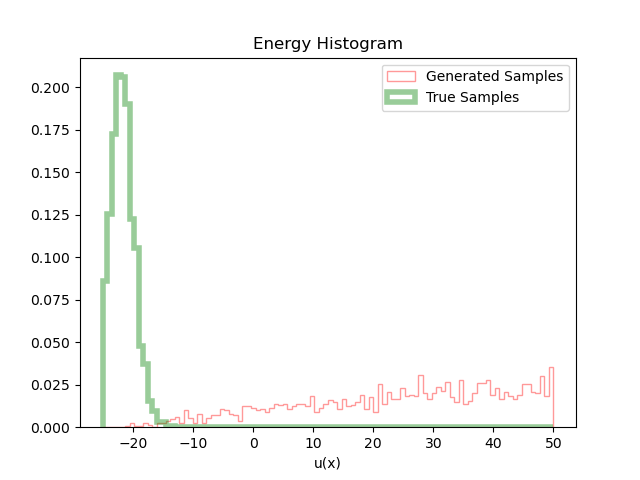
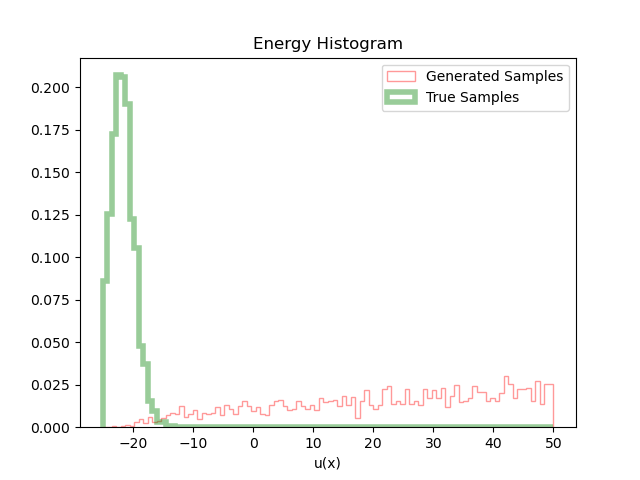
done with the plots

Changed region(s): [[0.25, 0.7812, 0.875, 0.875], [0.1875, 0.875, 0.25, 0.9062]]

diff --git a/eval_and_plot.py b/eval_and_plot.py
@@ -156,7 +156,7 @@ def plot_generating_flow(args, data, flow, prior, target, latent, samples, model
     
     # Changes based on the flow type (Diffeq for kernel/new and FFJORD for egnn) 
     if "kernel" or "new" in args.model:
-        x, dlogp = flow(latent, inverse=False)
+        x, dlogp = flow(latent, inverse=True)
         x = x.view(samples, -1)
     else:
         sampling = True
@@ -186,8 +186,8 @@ def plot_generating_flow(args, data, flow, prior, target, latent, samples, model
             linewidth=4,
             label='True Samples');
     
-        plt.hist(energies_bg, bins=100, density=True, range=(min_energy, 50), alpha=0.4, histtype='step', linewidth=4,
-            color="b", label="Final Weighted Samples", weights=np.exp(-log_w));
+        # plt.hist(energies_bg, bins=100, density=True, range=(min_energy, 50), alpha=0.4, histtype='step', linewidth=4,
+            # color="b", label="Final Weighted Samples", weights=np.exp(-log_w));
 # 
         plt.xlabel("u(x)", fontsize=10)
         # plt.xticks([...])
@@ -195,7 +195,7 @@ def plot_generating_flow(args, data, flow, prior, target, latent, samples, model
         plt.title('Energy Histogram')
         plt.legend(fontsize=10)
 
-        save_best_path = f"final_generated_hists/model_{model_name}_lamb_{lamb}_with_weights.png"
+        save_best_path = f"final_generated_hists/model_{model_name}_lamb_{lamb}.png"
         os.makedirs(os.path.dirname(save_best_path), exist_ok=True)
         plt.savefig(save_best_path)
 
